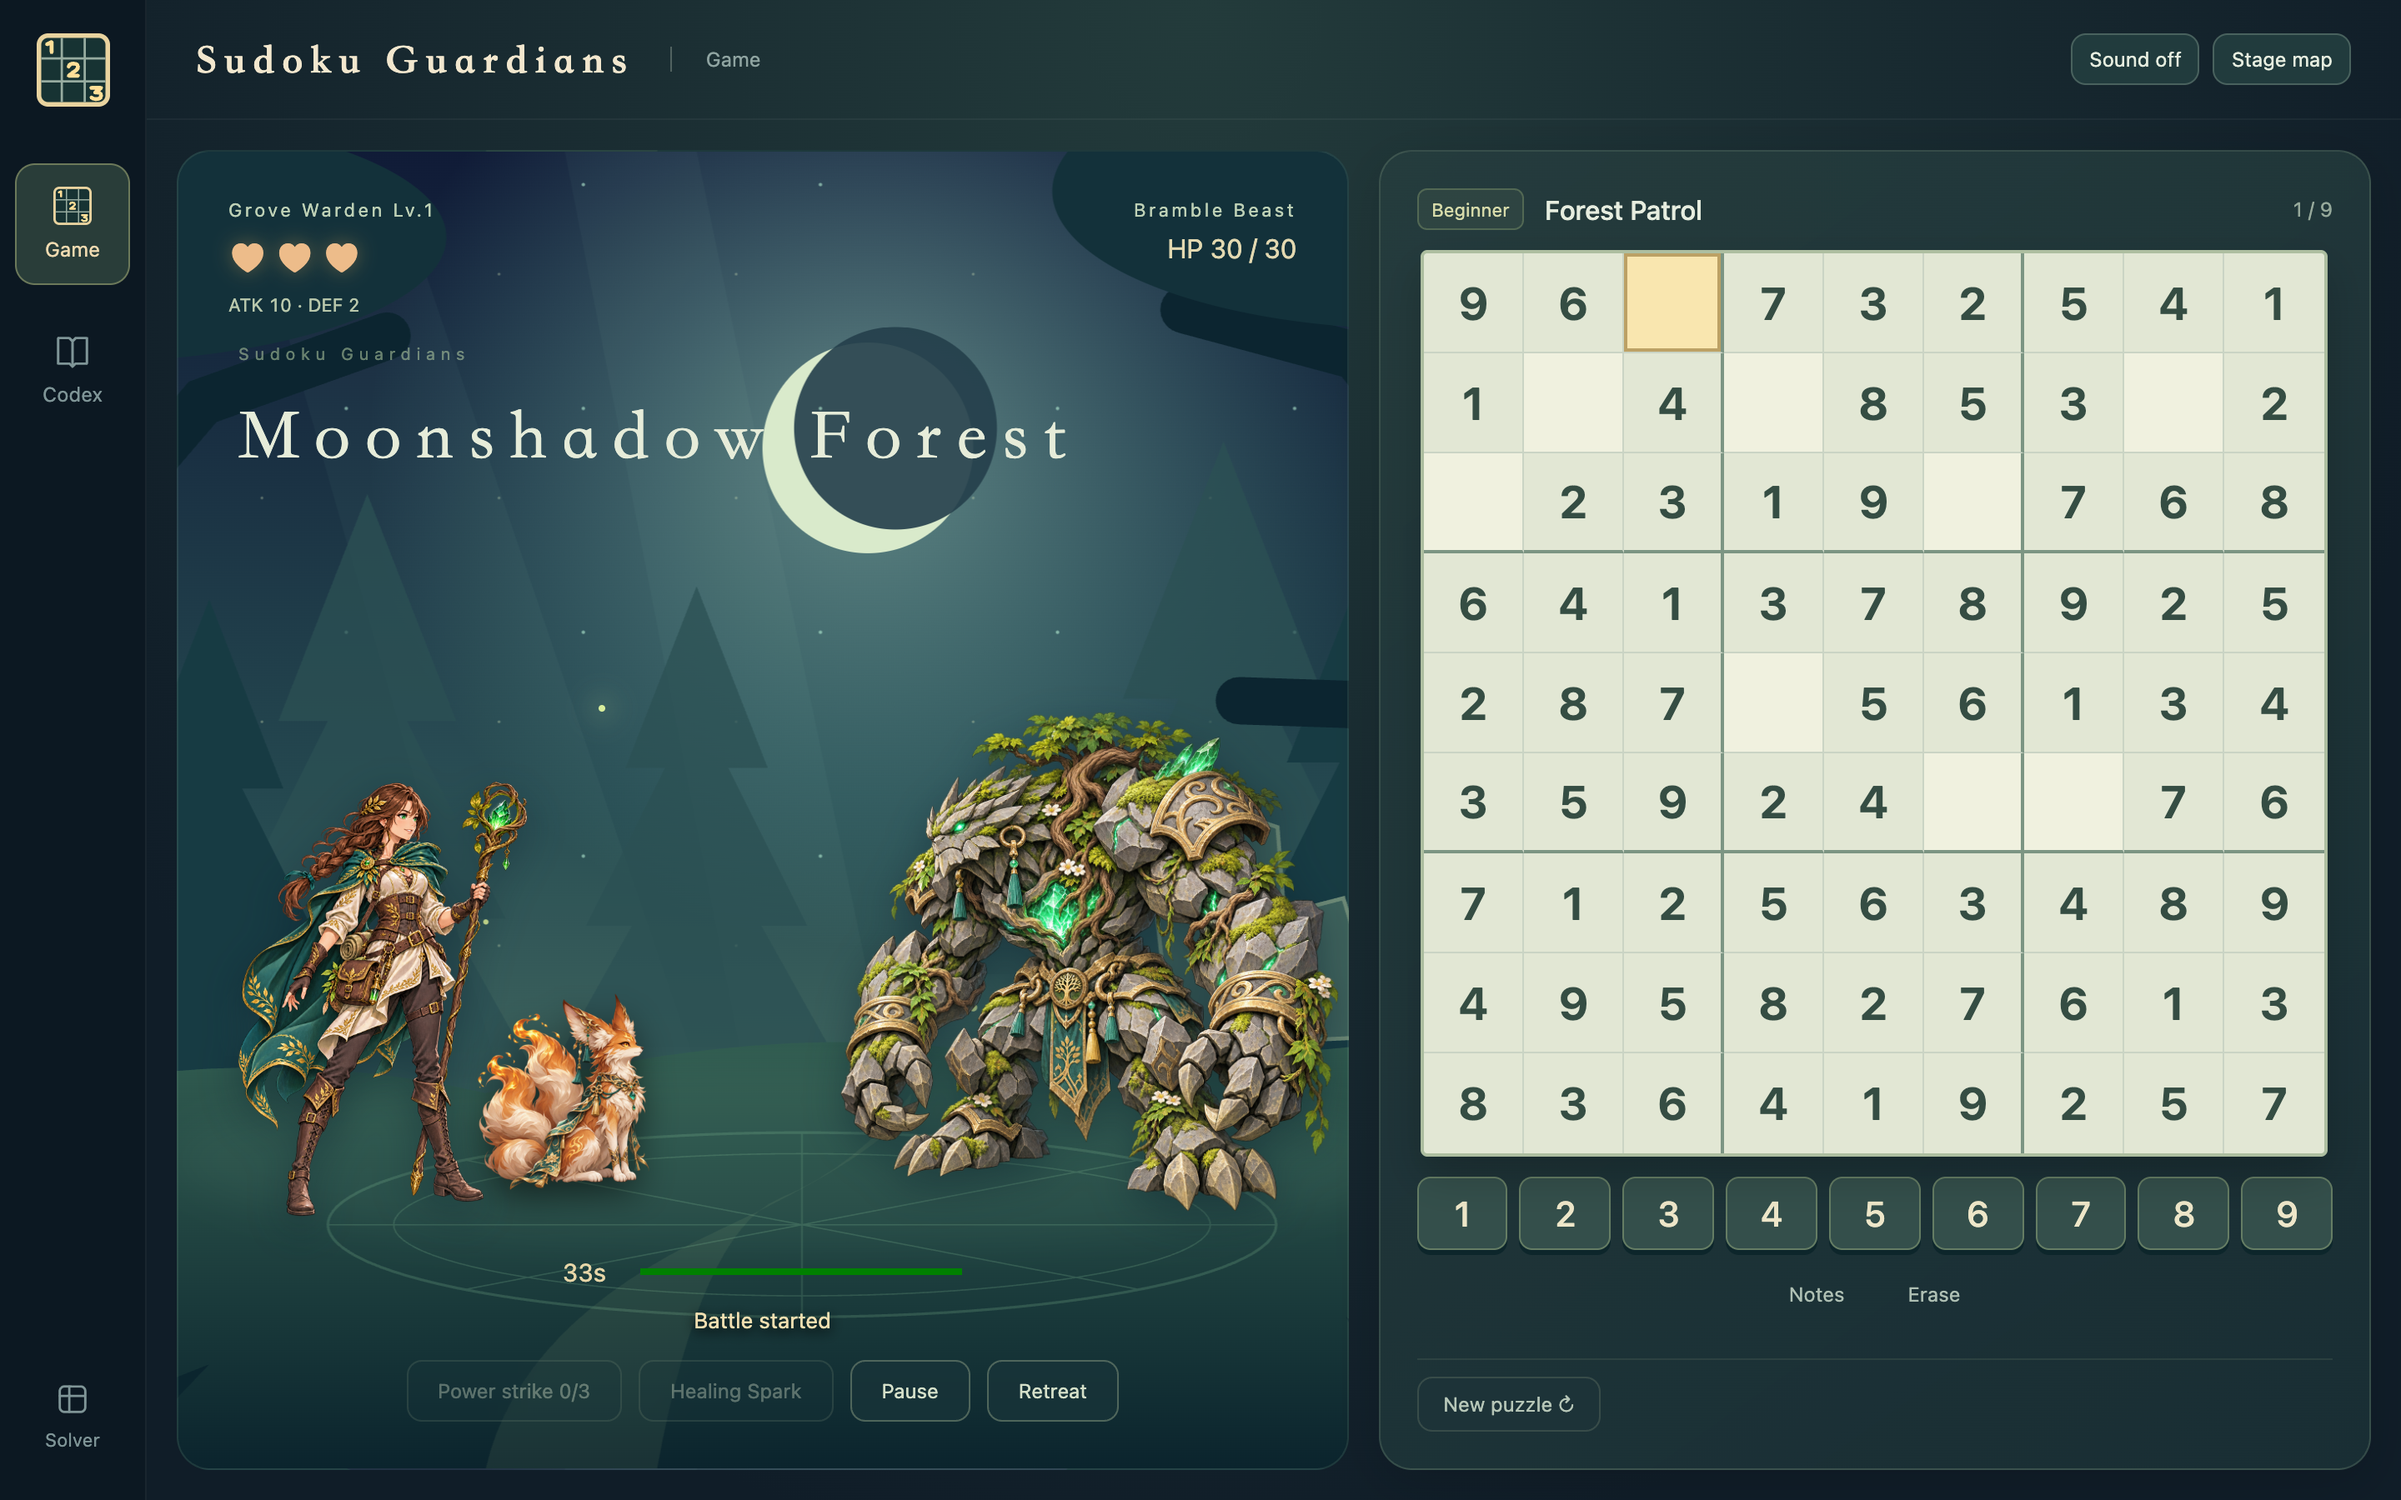
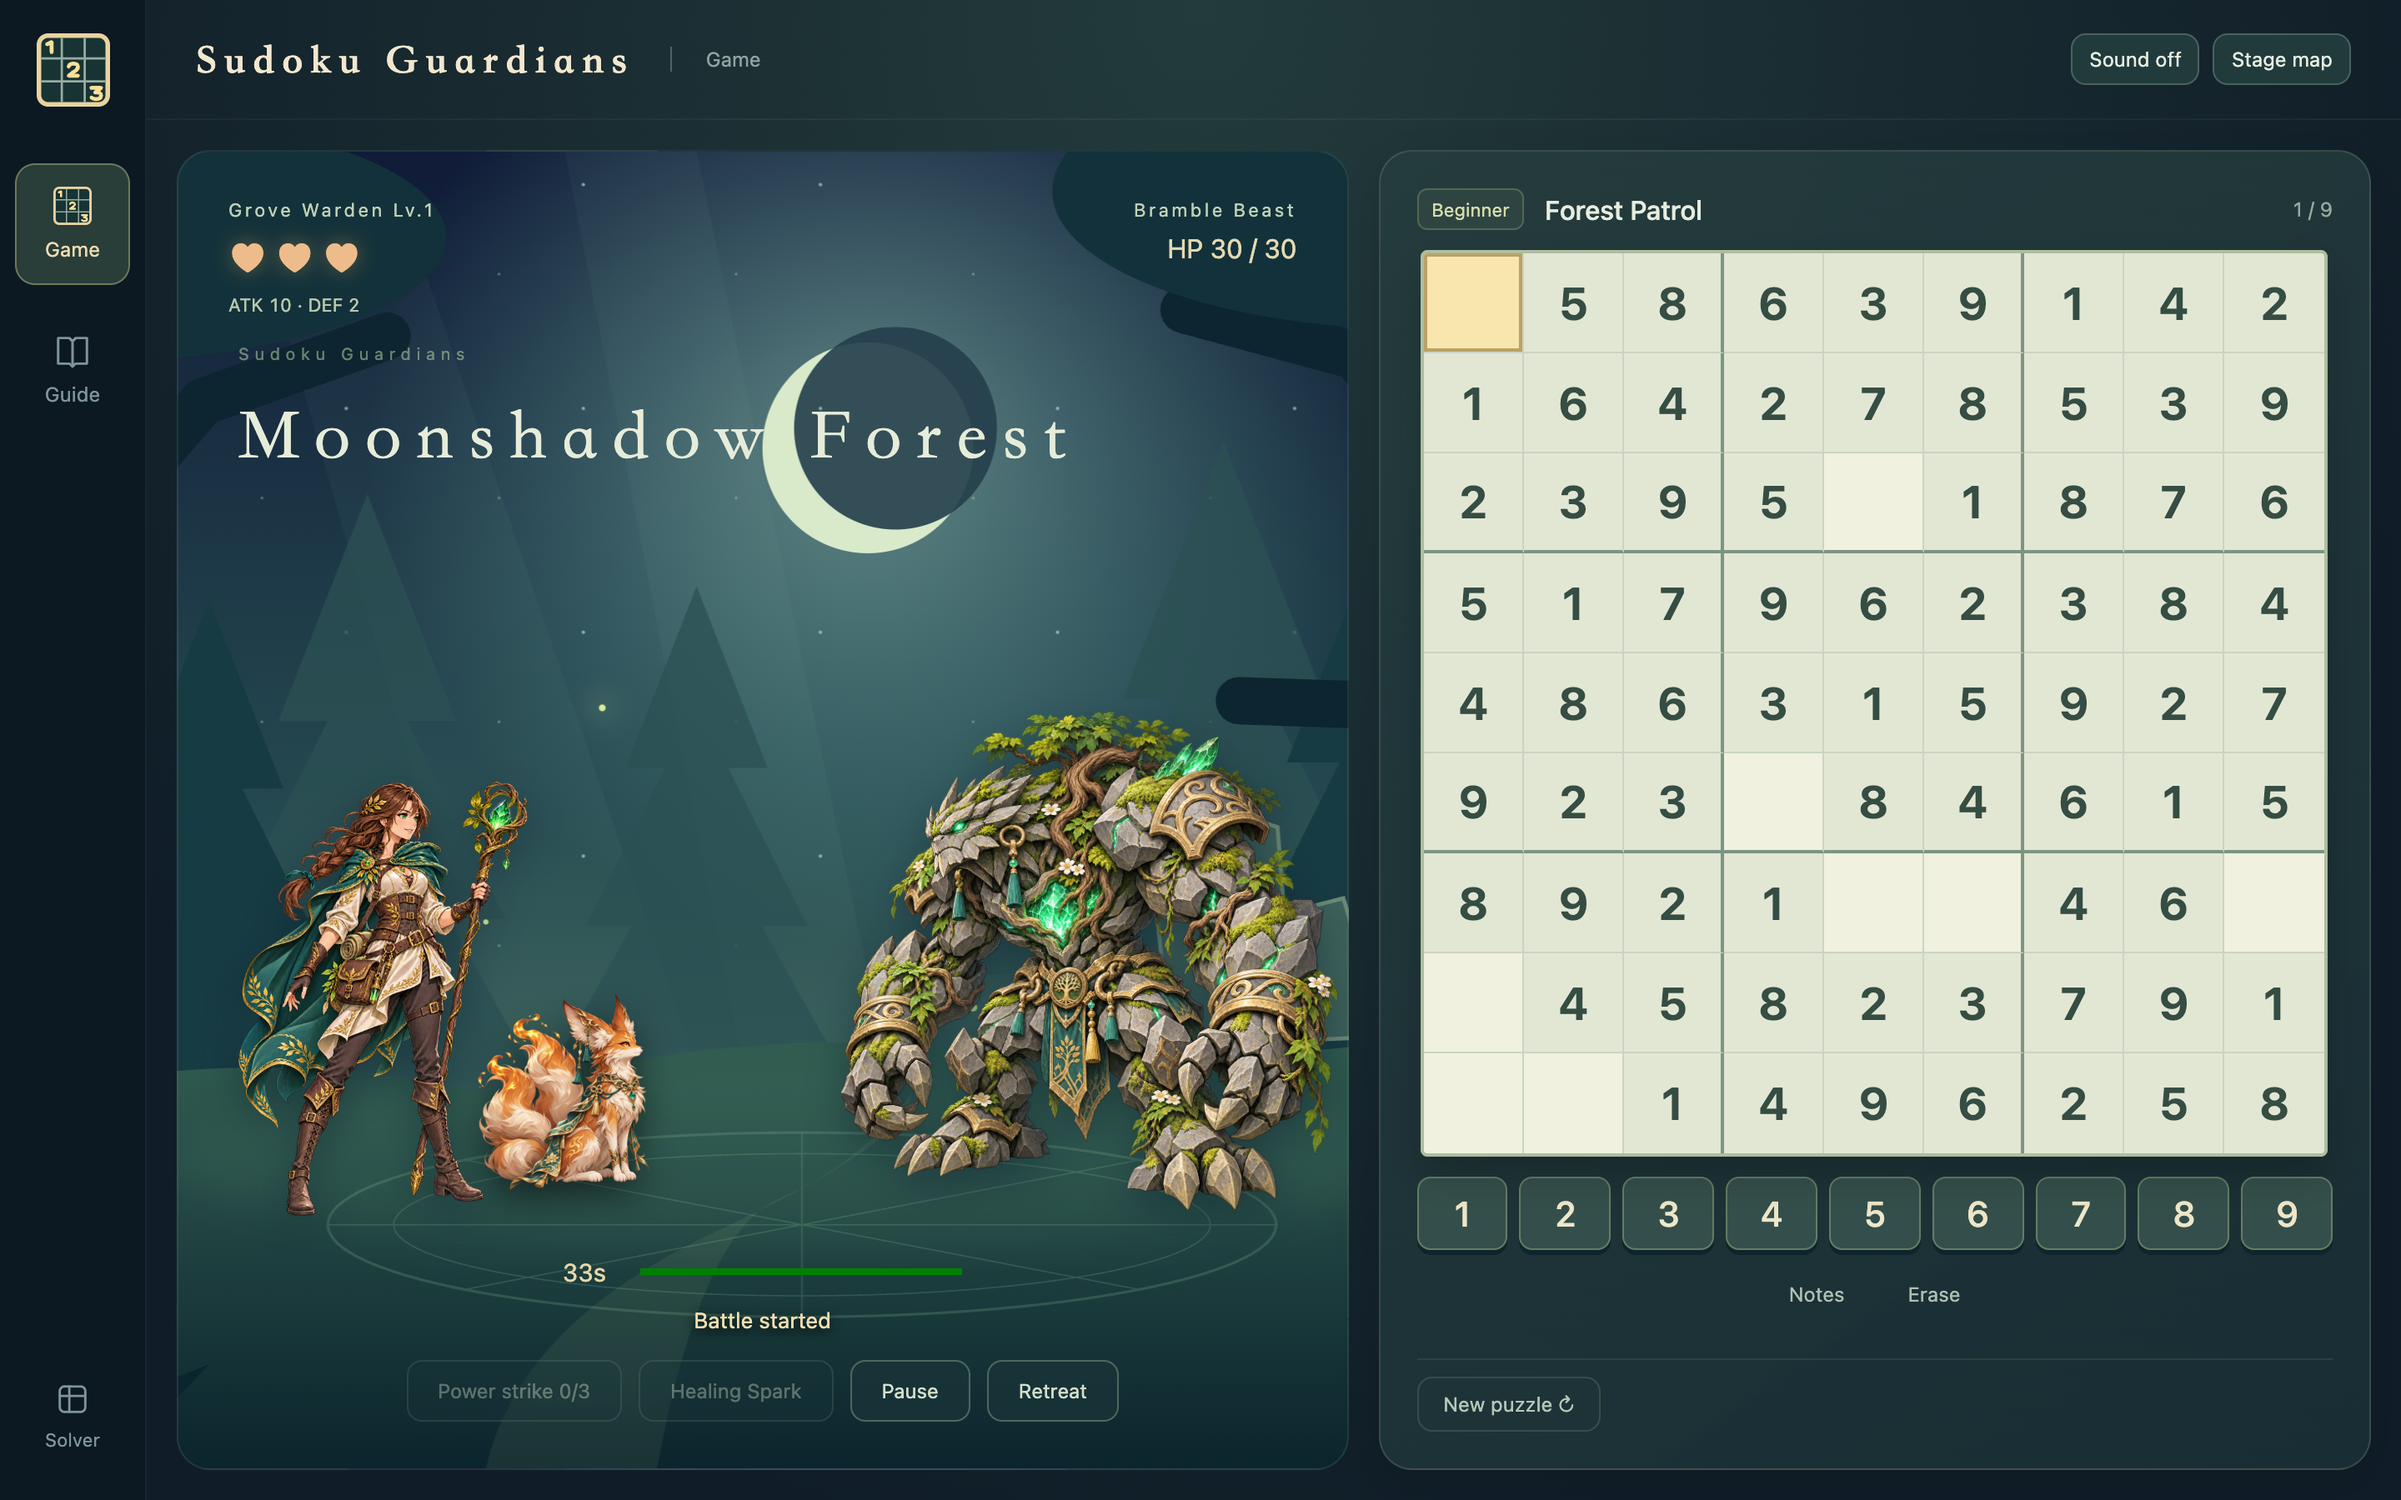
[FEAT] Rename the adventure guide

diff --git a/templates/navigation.html b/templates/navigation.html
@@ -2,7 +2,7 @@
     <div class="brand-mark" aria-hidden="true"><img src="{{ url_for('static', filename='art/sudoku.svg') }}" alt="" width="23" height="23"></div>
     <nav>
       {% if solver_page %}<a href="/play?view=battle" id="nav-game" class="nav-item" aria-pressed="false"><img src="{{ url_for('static', filename='art/sudoku.svg') }}" alt="" width="23" height="23"><span>Game</span></a>{% else %}<button id="nav-game" class="nav-item" aria-pressed="true"><img src="{{ url_for('static', filename='art/sudoku.svg') }}" alt="" width="23" height="23"><span>Game</span></button>{% endif %}
-      {% if solver_page %}<a href="/play?view=library" id="nav-library" class="nav-item" aria-pressed="false"><svg viewBox="0 0 24 24" aria-hidden="true"><path d="M3 4h7l2 2 2-2h7v16h-7l-2 2-2-2H3zM12 6v16"/></svg><span>Codex</span></a>{% else %}<button id="nav-library" class="nav-item" aria-pressed="false"><svg viewBox="0 0 24 24" aria-hidden="true"><path d="M3 4h7l2 2 2-2h7v16h-7l-2 2-2-2H3zM12 6v16"/></svg><span>Codex</span></button>{% endif %}
+      {% if solver_page %}<a href="/play?view=library" id="nav-library" class="nav-item" aria-pressed="false"><svg viewBox="0 0 24 24" aria-hidden="true"><path d="M3 4h7l2 2 2-2h7v16h-7l-2 2-2-2H3zM12 6v16"/></svg><span>Guide</span></a>{% else %}<button id="nav-library" class="nav-item" aria-pressed="false"><svg viewBox="0 0 24 24" aria-hidden="true"><path d="M3 4h7l2 2 2-2h7v16h-7l-2 2-2-2H3zM12 6v16"/></svg><span>Guide</span></button>{% endif %}
     </nav>
     <a href="/" class="rail-link" {% if solver_page %}aria-current="page"{% endif %} title="Sudoku solver" aria-label="Sudoku solver"><svg viewBox="0 0 24 24" aria-hidden="true"><rect x="4" y="4" width="16" height="16" rx="3"/><path d="M4 10h16M10 4v16"/></svg><span>Solver</span></a>
   </aside>

diff --git a/static/play.css b/static/play.css
@@ -87,7 +87,7 @@ button[aria-pressed='true'] { color: #f4d89d; background: #695c3533; border-colo
 }
 @media(max-height:550px) and (orientation:landscape) { .app-shell { grid-template-columns: 52px minmax(0,1fr); grid-template-rows: 42px minmax(0,1fr); }.side-rail { padding: 8px 4px; gap: 12px; }.brand-mark { width:30px; height:30px; font-size:20px; }.nav-item { padding:7px 2px; font-size:10px; }.play-space { grid-template-columns:minmax(0,1fr) minmax(280px, .9fr); padding:6px; gap:6px; }.game { padding:8px; gap:4px; }.game-heading h2 { font-size:12px; }.game-heading .badge { padding:2px 4px; font-size:9px; }.keypad { gap:4px; }.keypad button { font-size:15px; padding:3px 0; }.game-actions button,.bottom-actions button { font-size:10px; padding:3px 7px; }.bottom-actions { padding-top:4px; }.help-panel p { font-size:10px; }.help-panel button { font-size:10px; padding:3px 5px; }.topbar { padding:0 14px; }.game-brand h1 { font-size:19px; }.level { padding:7px; font-size:11px; }.level::before { font-size:20px; }.chapter { padding:12px; }#levels { grid-template-rows:repeat(3,minmax(64px,1fr)); }.chapter { gap:6px; } }
 @media(prefers-reduced-motion:reduce) { *,*::before,*::after { animation:none!important; transition:none!important; } }
-/* Only the card list scrolls in the codex. */
+/* Only the card list scrolls in the guide. */
 .library { grid-column:2; grid-row:2; min-height:0; min-width:0; padding:18px 24px; display:grid; grid-template-rows:auto auto minmax(0,1fr) auto auto; gap:12px; background:radial-gradient(ellipse at 50% 30%,#283c50,#101b28 80%); }
 .library-heading,.library-footer { display:flex; align-items:center; gap:12px; justify-content:space-between; }
 .library-heading h2 { margin:3px 0 0; font-size:23px; }

diff --git a/templates/play.html b/templates/play.html
@@ -59,8 +59,8 @@
       <p id="level-goal" class="sr-only"></p><p id="skill-summary" class="sr-only"></p><p id="save-note" class="sr-only">Progress is saved in this browser.</p>
     </section>
   </main>
-  <section id="library" class="library" hidden aria-label="Adventure codex">
-    <header class="library-heading"><div><span class="eyebrow">Battle prep</span><h2>Guardian Codex</h2></div><button id="library-close">Back to battle ↗</button></header>
+  <section id="library" class="library" hidden aria-label="Adventure guide">
+    <header class="library-heading"><div><span class="eyebrow">Battle prep</span><h2>Guide</h2></div><button id="library-close">Back to battle ↗</button></header>
     <nav id="library-tabs" aria-label="Resource categories"></nav>
     <div id="resource-cards" class="resource-cards" tabindex="0" aria-label="Scrollable resource list"></div>
     <footer class="library-footer"><span id="loadout-summary"></span></footer>

diff --git a/static/library.js b/static/library.js
@@ -9,7 +9,7 @@
       $('nav-library').setAttribute('aria-pressed','false'); save();
     }
     function render() {
-      $('view-label').textContent = 'Codex';
+      $('view-label').textContent = 'Guide';
       $('nav-challenge').setAttribute('aria-pressed','false');
       $('nav-game').setAttribute('aria-pressed','false');
       $('library-tabs').replaceChildren();
